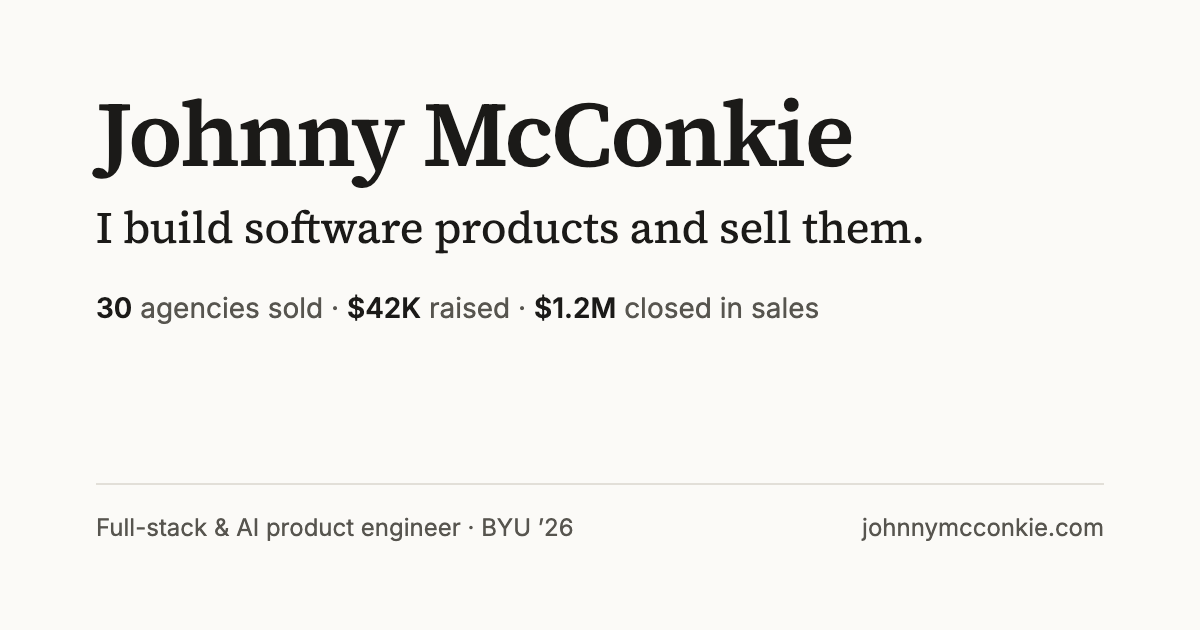
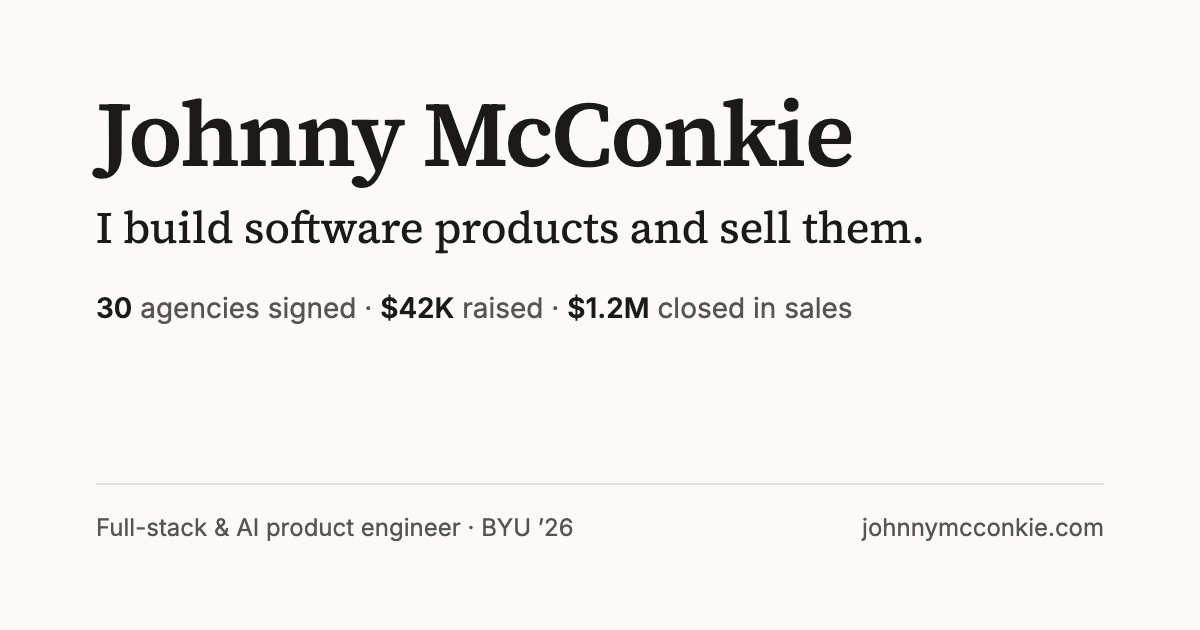
Polish home page for launch without screenshots
Media placeholders now show only in dev; production cards go text-only
until real assets exist. The home page shows a research card instead of
the placeholder chart, section headings are visible on desktop,
experience lists the company on its own line, and the proof line wraps
cleanly on phones. Voley wording now says agencies signed, not sold.

Changed region(s): [[0.2158, 0.4524, 0.7092, 0.5127]]

diff --git a/src/index.css b/src/index.css
@@ -235,13 +235,14 @@ img, video, svg { display: block; max-width: 100%; }
     -webkit-backdrop-filter: blur(8px);
   }
 }
-/* On desktop the sidebar nav does that job, so headings are screen-reader only. */
 @media (min-width: 1024px) {
-  .section { padding-top: 96px; }
-  .section-title { position: absolute; width: 1px; height: 1px; overflow: hidden; clip: rect(0 0 0 0); margin: 0; }
+  .section { padding-top: 104px; }
+  .section:first-child { padding-top: 0; }
+  #about .section-title { position: absolute; width: 1px; height: 1px; overflow: hidden; clip: rect(0 0 0 0); margin: 0; }
 }
 
-.prose { font-size: 1.04rem; color: var(--muted); }
+.prose { font-size: 1.06rem; color: var(--text); }
+.prose p:not(:first-child) { color: var(--muted); }
 .prose p + p { margin-top: 16px; }
 .prose strong { color: var(--text); font-weight: 600; }
 
@@ -261,11 +262,15 @@ img, video, svg { display: block; max-width: 100%; }
   font-variant-numeric: tabular-nums;
 }
 .entry-title { font-size: 1.12rem; }
-.entry-role { color: var(--muted); font-size: 0.95rem; margin-bottom: 6px; }
+.entry-role { color: var(--muted); font-size: 0.92rem; margin-bottom: 6px; }
 .entry-body { color: var(--muted); }
 .entry-stack { margin-top: 10px; font-size: 0.85rem; color: var(--muted); }
 
-.plain-list { display: grid; gap: 8px; margin-top: 32px; padding-left: 132px; color: var(--muted); }
+.plain-list { display: grid; gap: 6px; margin-top: 28px; padding-left: 132px; color: var(--muted); }
+.plain-list li { position: relative; }
+.plain-list li::before { content: ''; position: absolute; left: -16px; top: 0.75em; width: 6px; height: 1px; background: var(--faint); }
+.tools { margin-top: 20px; padding-left: 132px; font-size: 0.92rem; color: var(--muted); }
+.tools-label { display: block; font-size: 0.75rem; font-weight: 600; letter-spacing: 0.08em; text-transform: uppercase; color: var(--text); margin-bottom: 2px; }
 
 .footer { padding-top: 96px; font-size: 0.85rem; color: var(--muted); }
 
@@ -276,9 +281,10 @@ img, video, svg { display: block; max-width: 100%; }
   line-height: 1.4;
   margin-top: 10px;
 }
-.proof { margin-top: 18px; color: var(--muted); font-size: 0.95rem; }
+.proof { display: flex; flex-wrap: wrap; gap: 2px 0; margin-top: 18px; color: var(--muted); font-size: 0.95rem; }
+.proof-item { white-space: nowrap; }
+.proof-item:not(:last-child)::after { content: '·'; margin: 0 8px; color: var(--faint); }
 .proof strong { color: var(--text); font-weight: 600; font-variant-numeric: tabular-nums; }
-.proof-sep { color: var(--faint); }
 
 .now { margin-top: 28px; max-width: 420px; font-size: 0.92rem; color: var(--muted); }
 .now-label {
@@ -320,15 +326,16 @@ img, video, svg { display: block; max-width: 100%; }
 /* Micro-interaction: card tints, arrow slides up-right. */
 .card:hover { background: var(--surface); border-color: var(--rule); }
 .card:hover .card-title a { color: var(--accent); }
-.card:hover .card-arrow { transform: translate(2px, -2px); }
+.card:hover .card-arrow { transform: translateX(3px); }
+.card-text { grid-template-columns: 1fr; }
 
 .card-media { border-radius: 6px; border: 1px solid var(--rule); margin-top: 4px; }
 .card-meta { font-size: 0.82rem; font-weight: 500; color: var(--muted); }
 .card-title { font-size: 1.18rem; margin: 2px 0 6px; }
-.card-title a { display: inline-flex; align-items: center; gap: 6px; text-decoration: none; transition: color 0.15s ease; }
+.card-title a { text-decoration: none; transition: color 0.15s ease; }
 /* Stretch the title link over the whole card. */
 .card-title a::after { content: ''; position: absolute; inset: 0; border-radius: 12px; }
-.card-arrow { width: 14px; height: 14px; fill: none; stroke: currentColor; stroke-width: 1.6; stroke-linecap: round; transition: transform 0.25s var(--ease); }
+.card-arrow { display: inline-block; margin-left: 6px; vertical-align: -1px; width: 14px; height: 14px; fill: none; stroke: currentColor; stroke-width: 1.6; stroke-linecap: round; transition: transform 0.25s var(--ease); }
 .card-outcome { color: var(--muted); }
 
 .tags { display: flex; flex-wrap: wrap; gap: 6px; margin-top: 12px; }
@@ -589,7 +596,8 @@ img, video, svg { display: block; max-width: 100%; }
   .section-title { margin: 0 -16px 20px; padding: 12px 16px; }
   .entry { grid-template-columns: 1fr; }
   .entry-period { padding: 0 0 2px; }
-  .plain-list { padding-left: 0; }
+  .plain-list { padding-left: 16px; }
+  .tools { padding-left: 0; }
   .narrow { padding: 48px 16px; }
   .cards { margin: 0; gap: 28px; }
   .sidebar { position: relative; }

diff --git a/src/pages/Home.jsx b/src/pages/Home.jsx
@@ -3,7 +3,7 @@ import { projects } from '../data/work';
 import Sidebar from '../components/Sidebar';
 import WorkCard from '../components/WorkCard';
 import AccuracyChart from '../components/AccuracyChart';
-import { research } from '../data/research';
+import { research, accuracy } from '../data/research';
 import { useActiveSection } from '../lib/useActiveSection';
 
 function Section({ id, title, children }) {
@@ -44,15 +44,16 @@ export default function Home() {
 
         <Section id="research" title="Research">
           <p className="section-lede">{research.summary}</p>
-          <AccuracyChart compact />
-          <p className="research-links">
-            <a className="button" href={research.href}>Read about the study →</a>
-            {research.paperUrl ? (
-              <a className="button" href={research.paperUrl}>Paper</a>
-            ) : (
-              <span className="research-soon">Write-up coming soon</span>
-            )}
-          </p>
+          <ul className="cards">
+            <WorkCard p={research.card} />
+          </ul>
+          {/* The chart joins the home page once it shows real results. */}
+          {!accuracy.placeholder && <AccuracyChart compact />}
+          {research.paperUrl && (
+            <p className="research-links">
+              <a className="button" href={research.paperUrl}>Read the paper</a>
+            </p>
+          )}
         </Section>
 
         <Section id="experience" title="Experience">
@@ -62,9 +63,8 @@ export default function Home() {
               <li className="entry" key={e.org}>
                 <p className="entry-period">{e.period}</p>
                 <div>
-                  <h3 className="entry-title">
-                    {e.role} <span className="entry-org">· {e.org}</span>
-                  </h3>
+                  <h3 className="entry-title">{e.role}</h3>
+                  <p className="entry-role">{e.org}</p>
                   <p className="entry-body">{e.result}</p>
                 </div>
               </li>
@@ -72,7 +72,7 @@ export default function Home() {
           </ul>
         </Section>
 
-        <Section id="education" title="Education">
+        <Section id="education" title="Education & more">
           <ul className="entries">
             <li className="entry">
               <p className="entry-period">{education.period}</p>
@@ -87,8 +87,10 @@ export default function Home() {
             {other.map((o) => (
               <li key={o}>{o}</li>
             ))}
-            <li>Tools: {tools}</li>
           </ul>
+          <p className="tools">
+            <span className="tools-label">Tools</span> {tools}
+          </p>
         </Section>
 
         <footer className="footer">

diff --git a/src/data/case-studies/voley.js b/src/data/case-studies/voley.js
@@ -10,7 +10,7 @@ export default {
     { label: 'Timeline', value: 'Feb 2025 – Apr 2026' },
     { label: 'Team', value: 'Me + 5 contract developers' },
     { label: 'Stack', value: 'Next.js, Node.js, PostgreSQL, Twilio' },
-    { label: 'Results', value: '30 agencies signed · 12 began migrating · $42K raised' },
+    { label: 'Results', value: '30 agencies signed · $42K raised · keynote, Insurtech Utah 2025' },
   ],
   sections: [
     {
@@ -73,7 +73,7 @@ export default {
         },
         {
           heading: 'Selling it',
-          body: 'I built the pipeline myself through cold outreach and technical demos. 54% of cold-call conversations turned into demos, and 45% of demos turned into signed letters of intent. We signed 30 agencies and 12 began migrating. I raised $25K from insurance-industry investors and $17K across three BYU Miller Grants, and gave the keynote at Insurtech Utah 2025. [[TODO: confirm how “30 signed / 12 migrating” lines up with “fewer than 10% of LOIs onboarded” below]]',
+          body: 'I built the pipeline myself through cold outreach and technical demos. 54% of cold-call conversations turned into demos, and 45% of demos turned into signed letters of intent. We signed 30 agencies, and 12 committed to onboarding. I raised $25K from insurance-industry investors and $17K across three BYU Miller Grants, and gave the keynote at Insurtech Utah 2025.',
         },
         {
           heading: 'A dependency we didn’t control',
@@ -92,7 +92,7 @@ export default {
       subsections: [
         {
           heading: 'A letter of intent is not demand',
-          body: 'People will sign something that costs them nothing. The real signal is someone paying or changing how they work. Our top of funnel looked great, but fewer than 10% of the agencies that signed letters of intent fully onboarded. A product that asks a team to change how it operates is a much harder sell than it looks, especially in an established industry like insurance.',
+          body: 'People will sign something that costs them nothing. The real signal is someone paying or changing how they work. Our top of funnel looked great, but fewer than 10% of the agencies that signed letters of intent ever actually used the product. A product that asks a team to change how it operates is a much harder sell than it looks, especially in an established industry like insurance.',
         },
         {
           heading: 'Know what you don’t control',

diff --git a/src/components/WorkCard.jsx b/src/components/WorkCard.jsx
@@ -1,10 +1,11 @@
 import Media from './Media';
+import { showMedia } from '../lib/media';
 import Rich from './Rich';
 
 /** Whole card is one link to the case study; the title carries the href. */
 export default function WorkCard({ p }) {
   return (
-    <li className="card">
+    <li className={`card${showMedia(p.media) ? '' : ' card-text'}`}>
       <Media media={p.media} title={p.title} className="card-media" />
       <div className="card-body">
         <p className="card-meta">
@@ -14,18 +15,20 @@ export default function WorkCard({ p }) {
           <a href={p.href}>
             {p.title}
             <svg className="card-arrow" viewBox="0 0 16 16" aria-hidden="true">
-              <path d="M5 11L11 5M6 5h5v5" />
+              <path d="M3 8h10M9 4l4 4-4 4" />
             </svg>
           </a>
         </h3>
         <p className="card-outcome">
           <Rich text={p.outcome} />
         </p>
-        <ul className="tags" aria-label="Stack">
-          {p.stack.map((s) => (
-            <li key={s}>{s}</li>
-          ))}
-        </ul>
+        {p.stack && (
+          <ul className="tags" aria-label="Stack">
+            {p.stack.map((s) => (
+              <li key={s}>{s}</li>
+            ))}
+          </ul>
+        )}
       </div>
     </li>
   );

diff --git a/src/data/resume.js b/src/data/resume.js
@@ -11,13 +11,13 @@ export const profile = {
   name: 'Johnny McConkie',
   positioning: 'I build software products and sell them.',
   proof: [
-    { value: '30', label: 'agencies sold' },
+    { value: '30', label: 'agencies signed' },
     { value: '$42K', label: 'raised' },
     { value: '$1.2M', label: 'closed in sales' },
   ],
   now: 'Finishing my B.S. at BYU in December 2026. Looking for full-stack AI product engineering, forward-deployed engineering, or product roles, available January 2027.',
   about: [
-    'I’m a full-stack engineer who also does the selling. At Voley I was the technical lead: I built the platform and its official HawkSoft integration, then sold it to 30 insurance agencies through cold outreach and demos.',
+    'I’m a full-stack engineer who also does the selling. At Voley I was the technical lead: I built the platform and its official HawkSoft integration, then signed 30 insurance agencies through cold outreach and demos.',
     'Today I build and operate LedgerLine, a private platform I run my bookkeeping clients on, and I’m running a directed study at BYU on what information an LLM actually needs to classify a financial transaction.',
     'Before software I sold residential solar and ran sales for a concrete contractor.',
   ],

diff --git a/src/data/research.js b/src/data/research.js
@@ -19,6 +19,17 @@ export const accuracy = {
 };
 
 export const research = {
+  card: {
+    slug: 'llm-classification',
+    href: '/research/llm-classification/',
+    title: 'What does an LLM need to classify a transaction?',
+    role: 'Directed study with Prof. Mark Keith, BYU',
+    period: 'In progress',
+    outcome:
+      'A benchmark on real, de-identified bookkeeping data: five input levels × three model tiers, scored against cold accountant labels.',
+    stack: ['Python', 'LLM evaluation', 'Experimental design'],
+    media: { ready: false },
+  },
   summary:
     'A directed study with Prof. Mark Keith at BYU. When an LLM miscategorizes a financial transaction, is the fix a bigger model or better information? I’m building a benchmark on real, de-identified bookkeeping data to find out.',
   href: '/research/llm-classification/',

diff --git a/src/components/Media.jsx b/src/components/Media.jsx
@@ -1,8 +1,10 @@
 import { useEffect, useRef } from 'react';
+import { showMedia } from '../lib/media';
 
 /**
  * Screenshot or short looping video for a project. Until the asset exists
- * (`ready: false`), renders a labeled placeholder naming the file it wants.
+ * (`ready: false`), dev builds show a labeled placeholder naming the file
+ * it wants, and production renders nothing.
  */
 export default function Media({ media, title, className = '' }) {
   const video = useRef(null);
@@ -13,6 +15,8 @@ export default function Media({ media, title, className = '' }) {
       video.current.pause();
     }
   }, []);
+
+  if (!showMedia(media)) return null;
 
   if (!media.ready) {
     return (

diff --git a/src/components/Sidebar.jsx b/src/components/Sidebar.jsx
@@ -12,9 +12,8 @@ export default function Sidebar({ active }) {
         <p className="positioning">{profile.positioning}</p>
 
         <p className="proof">
-          {profile.proof.map((p, i) => (
-            <span key={p.label}>
-              {i > 0 && <span className="proof-sep" aria-hidden="true"> · </span>}
+          {profile.proof.map((p) => (
+            <span key={p.label} className="proof-item">
               <strong>{p.value}</strong> {p.label}
             </span>
           ))}

diff --git a/scripts/og/card.html b/scripts/og/card.html
@@ -18,7 +18,7 @@
 <body>
   <h1>Johnny McConkie</h1>
   <p class="pos">I build software products and sell them.</p>
-  <p class="proof"><b>30</b> agencies sold · <b>$42K</b> raised · <b>$1.2M</b> closed in sales</p>
+  <p class="proof"><b>30</b> agencies signed · <b>$42K</b> raised · <b>$1.2M</b> closed in sales</p>
   <div class="foot"><span>Full-stack &amp; AI product engineer · BYU ’26</span><span>johnnymcconkie.com</span></div>
 </body>
 </html>

diff --git a/src/lib/media.js b/src/lib/media.js
@@ -1,0 +1,2 @@
+/** Real asset, or a placeholder in dev builds only. Production shows neither until `ready: true`. */
+export const showMedia = (media) => media.ready || import.meta.env.DEV;

diff --git a/public/work/README.md b/public/work/README.md
@@ -1,7 +1,7 @@
 # Work media
 
-The home page cards and case studies show a labeled placeholder until each
-file below exists. After adding a file, set `ready: true` on that project's
+Until each file below exists, `npm run dev` shows a labeled placeholder in
+its place and production builds show the card without an image. After adding a file, set `ready: true` on that project's
 `media` in `src/data/work.js`.
 
 | File | What it should show | Size |
